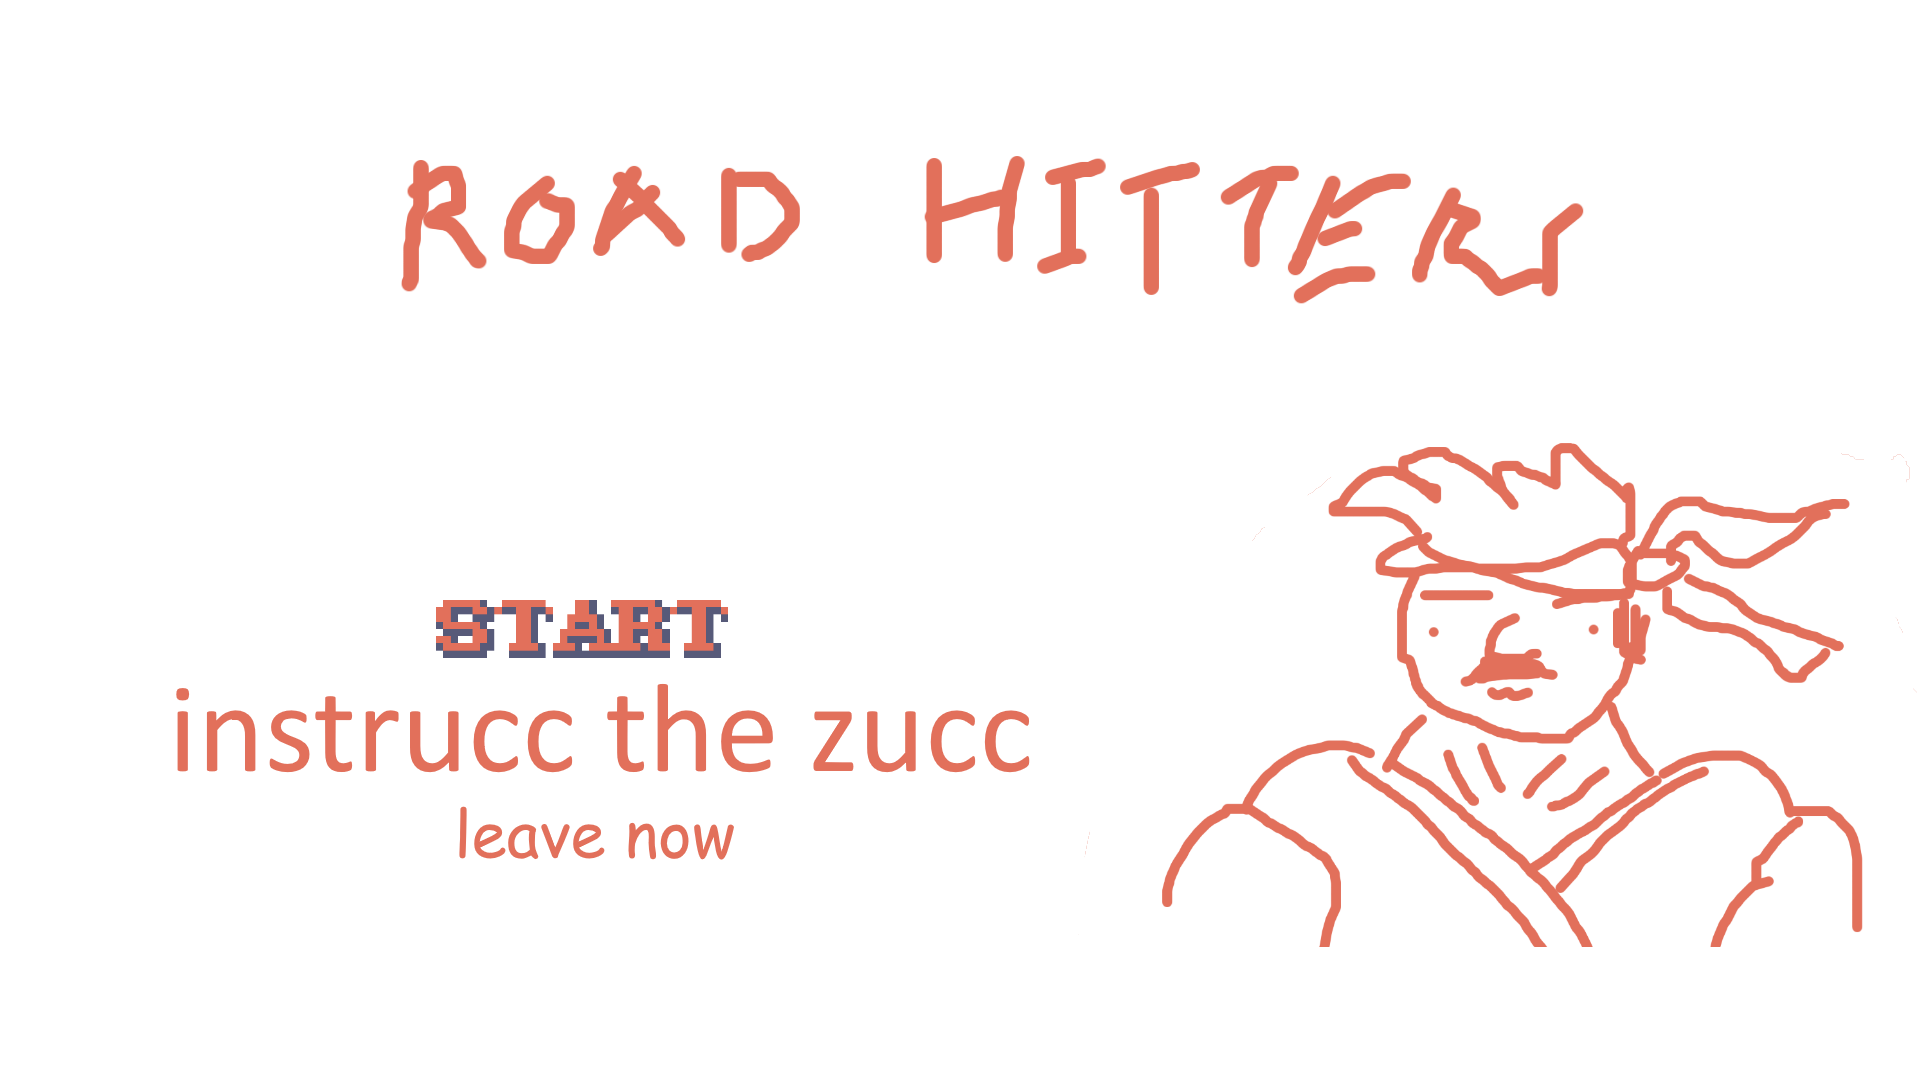
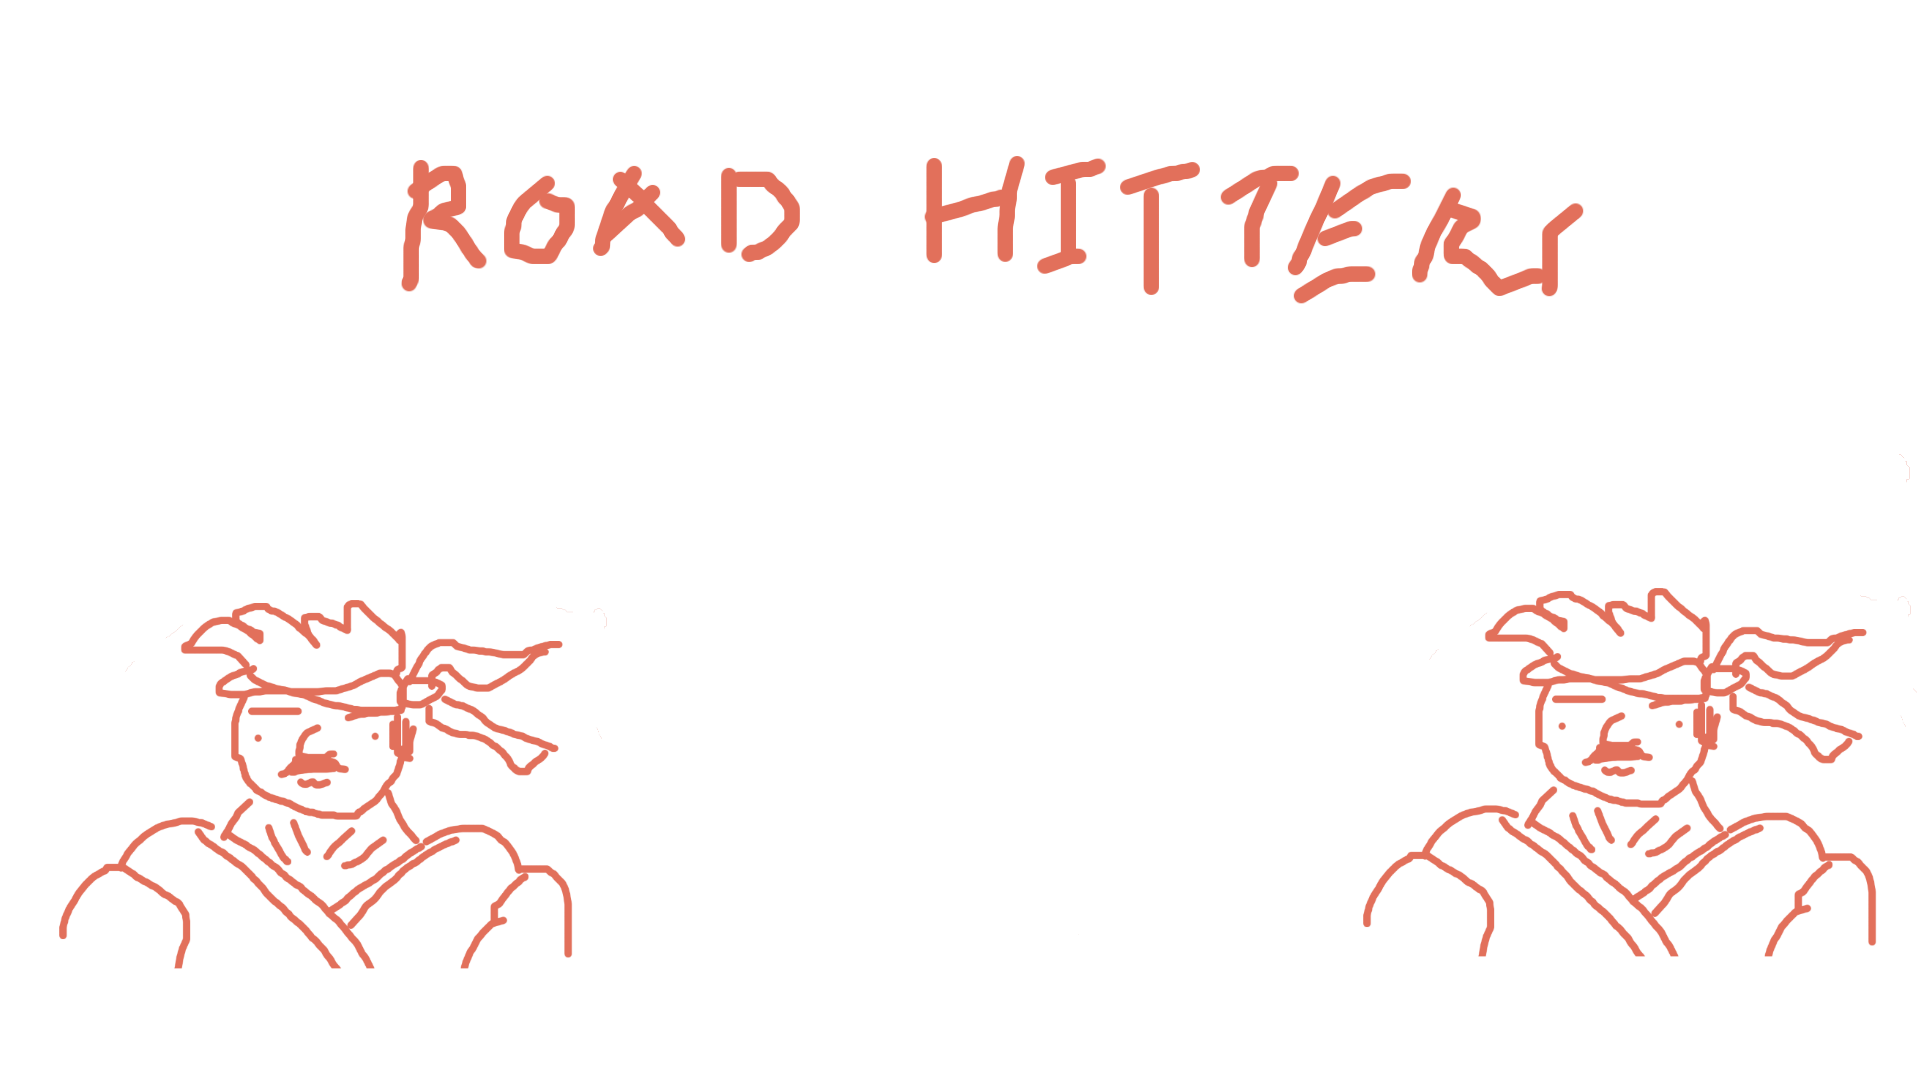
fixed up menu

diff --git a/source code/Menu.java b/source code/Menu.java
@@ -27,36 +27,33 @@ class Menu extends JFrame {
     private JFrame thisFrame;
     private static int screenHeight;
     private static int screenWidth;
+    private static double scaleRatio;
     
-    //Constructor - this runs first
     Menu() { 
         super("Start Screen");
         
+        // get the size of the screen
         screenHeight = Toolkit.getDefaultToolkit().getScreenSize().height;
         screenWidth = Toolkit.getDefaultToolkit().getScreenSize().width;
+        scaleRatio = (double) screenHeight / 1080;
         
-        ClickListener clickListener = new ClickListener();
-        
-        //configure the window
+        // configure the window
         this.setSize(screenWidth , screenHeight);
         this.setResizable(false);
         this.setLocationRelativeTo(null); //start the frame in the center of the screen
         this.setDefaultCloseOperation(JFrame.EXIT_ON_CLOSE);
         
         //Create a Panel for stuff
-        BackgroundPanel mainPanel = new BackgroundPanel();
+        DecoratedPanel mainPanel = new DecoratedPanel("resources/menu.png");
         mainPanel.setLayout(null);
         
-        MenuButton button1 = new MenuButton("resources/placeholder.jpg");
-        
-        // add listeners to mainpanel
-        button1.addMouseListener(clickListener);
+        StartButton button1 = new StartButton("resources/placeholder.jpg");
         
         //add the main panel to the frame
         this.add(mainPanel);
         mainPanel.add(button1);
         
-        button1.setBounds(screenWidth / 7 , screenHeight / 2 , 400 , 150);
+        button1.setBounds(screenWidth / 2 - (int) (150 * scaleRatio) , screenHeight / 2 - (int) (25 * scaleRatio) , 300 , 50);
         
         //Start the app
         this.setVisible(true);
@@ -64,15 +61,33 @@ class Menu extends JFrame {
         
     }
     
-    private class BackgroundPanel extends JPanel {
+    private class DecoratedPanel extends JPanel {
+        String picAddress;
+        
+        DecoratedPanel(String picAddress) {
+            super();
+            this.picAddress = picAddress;
+        }
+        
         public void paintComponent(Graphics g) { 
             super.paintComponent(g);
-            Image pic = new ImageIcon("resources/menu.png").getImage();
+            Image pic = new ImageIcon(picAddress).getImage();
             g.drawImage(pic , 0 , 0 , screenWidth , screenHeight , null); 
         }
     }
     
-    private class ClickListener implements MouseListener {        
+    private class StartButton extends DecoratedPanel implements MouseListener {  
+        StartButton(String picAddress) {
+            super(picAddress);
+            addMouseListener(this);
+        }
+        
+        public void paintComponent(Graphics g) { 
+            super.paintComponent(g);
+            Image pic = new ImageIcon(picAddress).getImage();
+            g.drawImage(pic , 0 , 0 , 300 , 50 , null); 
+        }
+        
         public void mousePressed(MouseEvent e) {
             System.out.println("pressed");
         }
@@ -92,22 +107,6 @@ class Menu extends JFrame {
         public void mouseClicked(MouseEvent e) {
             System.out.println("clicked");
             new CharSelect();
-            
-        }
-    }
-    
-    private class MenuButton extends JPanel {
-        
-        String picAddress;
-        
-        MenuButton(String picAddress) {
-            this.picAddress = picAddress;
-        }
-        
-        public void paintComponent(Graphics g) { 
-            super.paintComponent(g);
-            Image pic = new ImageIcon(picAddress).getImage();
-            g.drawImage(pic , 0 , 0 , 400 , 150 , null); 
         }
     }
     
